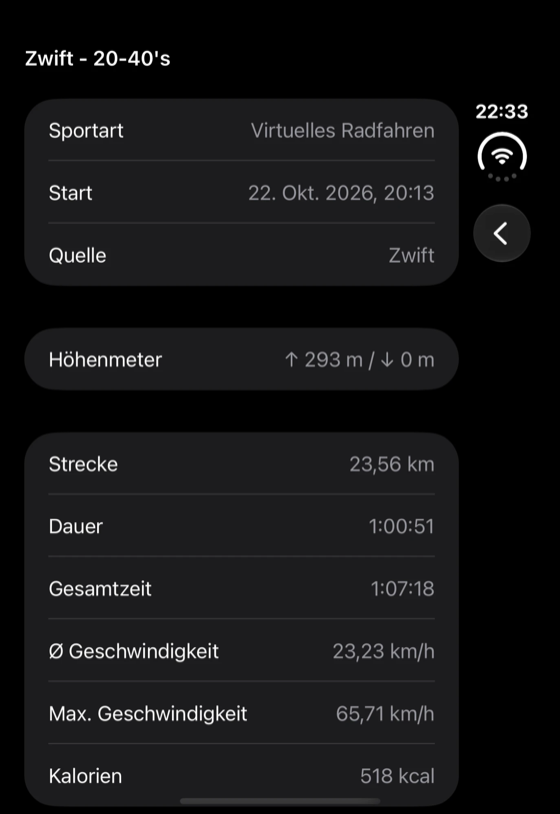
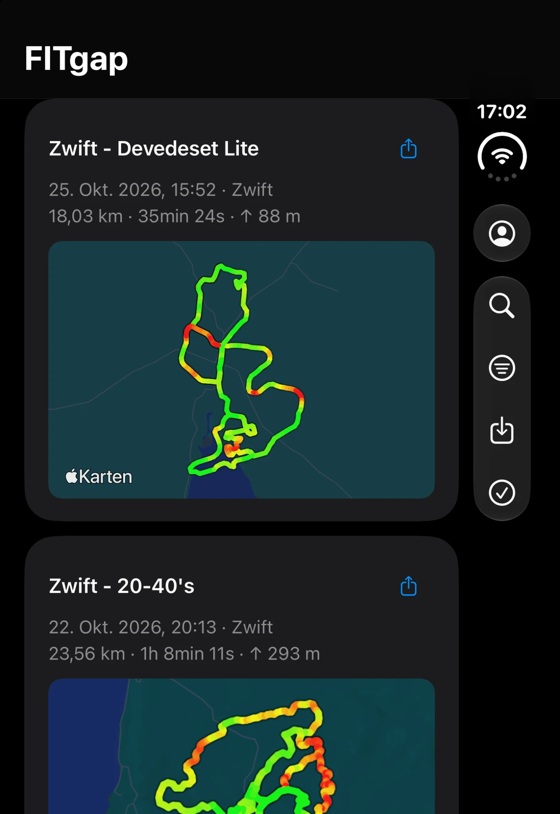
release/0.2.2

diff --git a/docs/privacy/index.html b/docs/privacy/index.html
@@ -29,7 +29,7 @@ footer a{color:var(--muted);text-decoration:underline}
 <nav><a class="brand" href="../"><img src="../assets/logo.png" alt="" width="32" height="32">FITgap</a><span><a href="en/">English</a> · <a href="https://github.com/florianwildt/fitgap">GitHub</a></span></nav>
 <main>
 <h1 id="fitgap">FITgap</h1>
-<p>FIT-Dateien aus Wahoo, Zwift, MyWhoosh, Hammerhead und intervals.icu sichern und teilen.</p>
+<p>FIT-Dateien aus Wahoo, Zwift, MyWhoosh, Hammerhead, Dropbox, intervals.icu und anderen Apps sichern, in Apple Health speichern und teilen.</p>
 
 <h2 id="support">Support</h2>
 <p>Bei Fragen oder Problemen: <a href="mailto:fitgap@florianwildt.de">fitgap@florianwildt.de</a></p>
@@ -50,7 +50,7 @@ Deutschland</p>
 <p>Diese Erklärung beschreibt die Verarbeitung personenbezogener Daten bei der Nutzung der iOS-App FITgap und dieser Informationsseite.</p>
 
 <h2 id="2-grundprinzip-der-app">2. Grundprinzip der App</h2>
-<p>FITgap verbindet sich auf deine Anforderung mit deinen eigenen Konten bei Wahoo, Zwift, MyWhoosh, Hammerhead, Dropbox und intervals.icu, lädt Aktivitätsinformationen und Original-FIT-Dateien herunter und speichert sie auf deinem iPhone.</p>
+<p>FITgap verbindet sich auf deine Anforderung mit deinen eigenen Konten bei Wahoo, Zwift, MyWhoosh, Hammerhead, Dropbox und intervals.icu, lädt Aktivitätsinformationen und Original-FIT-Dateien herunter und speichert sie auf deinem iPhone. Außerdem kannst du FIT-Dateien, die du aus der Dateien-App, Mail oder einer anderen App in FITgap öffnest, importieren; sie werden ebenfalls nur lokal gespeichert.</p>
 
 <p>FITgap betreibt keinen eigenen Server zur Speicherung deiner Konten oder Trainingsdaten. Der Entwickler erhält durch die normale App-Nutzung keinen Zugriff auf diese Daten.</p>
 
@@ -65,6 +65,7 @@ Deutschland</p>
   <li>Trainingskennzahlen, beispielsweise Dauer, Strecke, Höhenmeter und Durchschnittsgeschwindigkeit.</li>
   <li>Original-FIT-Dateien. Diese können je nach Aufzeichnung weitere persönliche Daten enthalten, etwa Positions-, Herzfrequenz- oder Leistungsdaten.</li>
   <li>Lokale Download-, Synchronisierungs- und Teilen-Statusinformationen sowie der Exportstatus für Apple Health.</li>
+  <li>Ein lokales Startprotokoll mit Startzeiten der App, App-Version, Gerätemodell, iOS-Version und Anzahl der gespeicherten Aktivitäten. Es enthält keine Trainingsinhalte und Zugangsdaten und verlässt das Gerät nur, wenn du es unter „Konten“ › „Diagnose“ selbst teilst.</li>
 </ul>
 
 <p>Die gespeicherten Daten dienen der Bereitstellung der von dir genutzten App-Funktionen.</p>
@@ -100,6 +101,7 @@ Deutschland</p>
 <p>Aktivitätsinformationen, FIT-Dateien und berechnete Kennzahlen werden im lokalen App-Speicher abgelegt. Eine eigene Cloud-Synchronisierung bietet FITgap nicht an. Gerätesicherungen können abhängig von deinen Apple- und Geräteeinstellungen App-Daten enthalten.</p>
 
 <p>Beim Teilen über das iOS-Teilen-Menü wird die ausgewählte Originaldatei an die von dir gewählte App oder das gewählte Ziel übergeben, beispielsweise HealthFit. Eine FIT-Datei kann dabei auch sensible Trainings- und Positionsdaten enthalten. Für die weitere Verarbeitung beim Empfänger gelten dessen Datenschutzbestimmungen.</p>
+<p>Enthält eine Aktivität Positionsdaten, zeigt FITgap die Strecke auf einer Karte von Apple (MapKit). Zum Laden der Karte erhält Apples Kartendienst den angezeigten Kartenausschnitt sowie technisch notwendige Verbindungsdaten wie die IP-Adresse; die Strecke selbst zeichnet FITgap auf dem Gerät. Es gilt die <a href="https://www.apple.com/de/legal/privacy/data/de/apple-maps/">Datenschutzinformation zu Apple Karten</a>.</p>
 
 <h2 id="6-apple-health">6. Apple Health</h2>
 <p>Die Sicherung in Apple Health ist optional und erfolgt nur, wenn du sie für eine Aktivität, eine Auswahl oder automatisch für neue Aktivitäten auslöst und den Zugriff in iOS erlaubst.</p>
@@ -118,7 +120,7 @@ Deutschland</p>
 
 <ul>
   <li>„Trennen“ entfernt die in FITgap gespeicherten Zugangstokens des jeweiligen Anbieters. Bereits heruntergeladene Dateien und Aktivitätsinformationen bleiben erhalten.</li>
-  <li>Eine beim Anbieter erteilte Freigabe wird durch „Trennen“ nicht widerrufen. Verwalte sie zusätzlich beim jeweiligen Anbieter.</li>
+  <li>Eine beim Anbieter erteilte Freigabe wird durch „Trennen“ nicht widerrufen, außer bei Hammerhead und Dropbox. Verwalte sie zusätzlich beim jeweiligen Anbieter.</li>
   <li>Das Ausschalten der automatischen Sicherung oder das Löschen von FITgap entfernt keine bereits in Apple Health gesicherten Trainings.</li>
   <li>Das Löschen einer FIT-Datei entfernt die lokale Datei. Der Aktivitätseintrag und bereits gespeicherte Kennzahlen können weiterhin vorhanden sein.</li>
   <li>Zum Entfernen des gesamten lokalen App-Speichers kannst du die App über iOS löschen. „App auslagern“ erhält dagegen Dokumente und Daten. Trenne zuvor die Konten, da Schlüsselbunddaten eine App-Deinstallation überdauern können.</li>

diff --git a/docs/privacy/en/index.html b/docs/privacy/en/index.html
@@ -29,7 +29,7 @@ footer a{color:var(--muted);text-decoration:underline}
 <nav><a class="brand" href="../../"><img src="../../assets/logo.png" alt="" width="32" height="32">FITgap</a><span><a href="../">Deutsch</a> · <a href="https://github.com/florianwildt/fitgap">GitHub</a></span></nav>
 <main>
 <h1 id="fitgap">FITgap</h1>
-<p>Back up and share FIT files from Wahoo, Zwift, MyWhoosh, Hammerhead and intervals.icu.</p>
+<p>Back up FIT files from Wahoo, Zwift, MyWhoosh, Hammerhead, Dropbox, intervals.icu and other apps, save them to Apple Health and share them.</p>
 
 <h2 id="support">Support</h2>
 <p>If you have questions or problems, contact <a href="mailto:fitgap@florianwildt.de">fitgap@florianwildt.de</a>.</p>
@@ -51,7 +51,7 @@ Germany</p>
 <p>This policy describes how personal data is processed when you use the iOS app FITgap and this information website.</p>
 
 <h2 id="2-basic-principle-of-the-app">2. Basic principle of the app</h2>
-<p>At your request, FITgap connects to your own Wahoo, Zwift, MyWhoosh, Hammerhead, Dropbox and intervals.icu accounts, downloads activity information and original FIT files, and stores them on your iPhone.</p>
+<p>At your request, FITgap connects to your own Wahoo, Zwift, MyWhoosh, Hammerhead, Dropbox and intervals.icu accounts, downloads activity information and original FIT files, and stores them on your iPhone. You can also import FIT files that you open in FITgap from the Files app, Mail or another app; they are likewise stored only on your device.</p>
 
 <p>FITgap does not operate its own server for storing your accounts or workout data. The developer does not gain access to this data through normal use of the app.</p>
 
@@ -66,6 +66,7 @@ Germany</p>
   <li>Workout metrics such as duration, distance, elevation gain and average speed.</li>
   <li>Original FIT files. Depending on the recording, these may contain further personal data such as location, heart rate or power data.</li>
   <li>Local download, synchronisation and sharing status information, and the Apple Health export status.</li>
+  <li>A local startup log with the app’s launch timings, app version, device model, iOS version and number of stored activities. It contains no workout content or credentials and only leaves the device if you share it yourself under “Accounts” › “Diagnostics”.</li>
 </ul>
 
 <p>The stored data is used to provide the app functions you use.</p>
@@ -101,6 +102,7 @@ Germany</p>
 <p>Activity information, FIT files and calculated metrics are stored in the app’s local storage. FITgap does not offer its own cloud synchronisation. Depending on your Apple and device settings, device backups may contain app data.</p>
 
 <p>When you share via the iOS share sheet, the selected original file is handed to the app or destination you choose, for example HealthFit. A FIT file may also contain sensitive workout and location data. The recipient’s privacy policy applies to any further processing by the recipient.</p>
+<p>If an activity contains location data, FITgap shows its route on a map from Apple (MapKit). To load the map, Apple’s map service receives the displayed map region and technically necessary connection data such as your IP address; FITgap draws the route itself on the device. Apple’s <a href="https://www.apple.com/legal/privacy/data/en/apple-maps/">Apple Maps privacy information</a> applies.</p>
 
 <h2 id="6-apple-health">6. Apple Health</h2>
 <p>Saving to Apple Health is optional and only happens when you trigger it for an activity, a selection or automatically for new activities, and allow access in iOS.</p>
@@ -119,7 +121,7 @@ Germany</p>
 
 <ul>
   <li>“Disconnect” removes the access tokens stored in FITgap for the respective provider. Files already downloaded and activity information are kept.</li>
-  <li>“Disconnect” does not revoke permission granted at the provider. Please also manage it with the provider.</li>
+  <li>“Disconnect” does not revoke permission granted at the provider, except for Hammerhead and Dropbox. Please also manage it with the provider.</li>
   <li>Turning off automatic saving or deleting FITgap does not remove workouts already saved to Apple Health.</li>
   <li>Deleting a FIT file removes the local file. The activity entry and metrics already saved may remain.</li>
   <li>To remove all local app storage, delete the app through iOS. “Offload App”, by contrast, keeps documents and data. Disconnect your accounts beforehand, as keychain data can survive an app deletion.</li>

diff --git a/docs/index.html b/docs/index.html
@@ -86,10 +86,10 @@ html[lang=en] span[data-l=en],html[lang=de] span[data-l=de]{display:inline}
   </div>
 
   <div class="shots" id="shots">
-    <figure data-l="en"><img src="assets/shot-list-en.png" alt="Activity list with Zwift and Wahoo rides" width="560" height="1217" loading="lazy"><figcaption>Your activities</figcaption></figure>
-    <figure data-l="de"><img src="assets/shot-list-de.png" alt="Aktivitätenliste mit Zwift- und Wahoo-Fahrten" width="560" height="1217" loading="lazy"><figcaption>Deine Aktivitäten</figcaption></figure>
-    <figure data-l="en"><img src="assets/shot-detail-en.png" alt="Activity details read from the FIT file" width="560" height="1217" loading="lazy"><figcaption>Details from the FIT</figcaption></figure>
-    <figure data-l="de"><img src="assets/shot-detail-de.png" alt="Aktivitätsdetails aus der FIT-Datei" width="560" height="1217" loading="lazy"><figcaption>Details aus der FIT</figcaption></figure>
+    <figure data-l="en"><img src="assets/shot-list-en.png" alt="Activity list with Zwift rides and their route maps" width="560" height="1217" loading="lazy"><figcaption>Your activities</figcaption></figure>
+    <figure data-l="de"><img src="assets/shot-list-de.png" alt="Aktivitätenliste mit Zwift-Fahrten und ihren Streckenkarten" width="560" height="1217" loading="lazy"><figcaption>Deine Aktivitäten</figcaption></figure>
+    <figure data-l="en"><img src="assets/shot-detail-en.png" alt="Activity details with route map, start and finish" width="560" height="1217" loading="lazy"><figcaption>Route and details from the FIT</figcaption></figure>
+    <figure data-l="de"><img src="assets/shot-detail-de.png" alt="Aktivitätsdetails mit Streckenkarte, Start und Ziel" width="560" height="1217" loading="lazy"><figcaption>Strecke und Details aus der FIT</figcaption></figure>
     <figure class="wide" data-l="en"><img src="assets/shot-duo-split-en.png" alt="Two-column layout on the unfolded iPhone Duo" width="1100" height="774" loading="lazy"><figcaption>Two columns on iPhone Duo</figcaption></figure>
     <figure class="wide" data-l="de"><img src="assets/shot-duo-split-de.png" alt="Zweispaltige Ansicht auf dem aufgeklappten iPhone Duo" width="1100" height="774" loading="lazy"><figcaption>Zweispaltig auf dem iPhone Duo</figcaption></figure>
   </div>
@@ -98,7 +98,7 @@ html[lang=en] span[data-l=en],html[lang=de] span[data-l=de]{display:inline}
     <h2><span data-l="en">How it works</span><span data-l="de">So funktioniert's</span></h2>
     <ol class="steps">
       <li><span data-l="en">Connect</span><span data-l="de">Verbinden</span><span class="sub"><span data-l="en">Sign in to Wahoo, Zwift, MyWhoosh, Hammerhead, Dropbox or intervals.icu – or simply open a FIT file in FITgap.</span><span data-l="de">Bei Wahoo, Zwift, MyWhoosh, Hammerhead, Dropbox oder intervals.icu anmelden – oder einfach eine FIT-Datei in FITgap öffnen.</span></span></li>
-      <li><span data-l="en">Download</span><span data-l="de">Laden</span><span class="sub"><span data-l="en">All original FIT files are fetched and stored locally.</span><span data-l="de">Alle Original-FITs werden geladen und lokal gespeichert.</span></span></li>
+      <li><span data-l="en">Download</span><span data-l="de">Laden</span><span class="sub"><span data-l="en">All original FIT files are fetched and stored locally – filter them by time period, activity type or source.</span><span data-l="de">Alle Original-FITs werden geladen und lokal gespeichert – filterbar nach Zeitraum, Aktivitätstyp und Quelle.</span></span></li>
       <li><span data-l="en">Save to Health</span><span data-l="de">In Health sichern</span><span class="sub"><span data-l="en">One, a selection, all past activities or new ones automatically after every sync.</span><span data-l="de">Eine, eine Auswahl, alle vergangenen oder neue automatisch nach jedem Abgleich.</span></span></li>
       <li><span data-l="en">Or share</span><span data-l="de">Oder teilen</span><span class="sub"><span data-l="en">Pick one or many and send them to HealthFit via the share sheet.</span><span data-l="de">Eine oder mehrere wählen und per Share Sheet an HealthFit senden.</span></span></li>
     </ol>

diff --git a/Sources/FITgapCore/DemoLibrary.swift b/Sources/FITgapCore/DemoLibrary.swift
@@ -24,8 +24,9 @@ public struct DemoLibrary: Sendable {
         if FileManager.default.fileExists(atPath: library.directory.appendingPathComponent("activities.json").path) {
             var records = try library.load()
             // Bundled demo files are small: replace copies from an older app version and refresh older cached metrics directly.
+            // A file the user deleted stays deleted until restored.
             let outdated = records.indices.filter { index in
-                guard let bundled = try? bytes(id: records[index].remoteID) else { return false }
+                guard records[index].status != .deleted, let bundled = try? bytes(id: records[index].remoteID) else { return false }
                 return records[index].receipt?.sha256 != SHA256.hash(data: bundled).map { String(format: "%02x", $0) }.joined()
             }
             guard !outdated.isEmpty || records.contains(where: \.needsMetrics) else { return records }

diff --git a/App/DemoSection.swift b/App/DemoSection.swift
@@ -28,7 +28,7 @@ struct DemoSection: View {
                     Button("Demo ausprobieren", systemImage: "play.circle") { Task { await model.setDemo(true) } }
                         .accessibilityIdentifier(identifierPrefix + "try-demo")
                         .disabled(model.switchingMode)
-                    Text("Kernfunktionen mit synthetischen Aktivitäten und lokalen FIT-Dateien ausprobieren. Kein Konto bei Wahoo, Zwift oder MyWhoosh erforderlich.")
+                    Text("Kernfunktionen mit synthetischen Aktivitäten und lokalen FIT-Dateien ausprobieren. Kein Konto bei einer Datenquelle erforderlich.")
                         .font(.footnote).foregroundStyle(.secondary)
                 }
                 if model.switchingMode {

diff --git a/App/ActivitiesView.swift b/App/ActivitiesView.swift
@@ -90,7 +90,7 @@ struct ActivitiesView: View {
                 if model.activities.isEmpty {
                     Section {
                         ContentUnavailableView("Noch keine Aktivitäten", systemImage: "figure.outdoor.cycle",
-                            description: Text("Verbinde unter „Konten“ Wahoo, Zwift oder MyWhoosh und ziehe die Liste nach unten."))
+                            description: Text("Verbinde unter „Konten“ eine Datenquelle und ziehe die Liste nach unten – oder importiere eine FIT-Datei."))
                     }
                 } else if matches.isEmpty {
                     if filter.isActive, search.isEmpty {

diff --git a/README.de.md b/README.de.md
@@ -4,7 +4,7 @@
 
 ![FITgap – Deine Fahrten von Wahoo, Zwift, MyWhoosh, Hammerhead, Dropbox und intervals.icu, direkt in Apple Health](docs/assets/header-de.png)
 
-FITgap ist eine schlanke Open-Source-iPhone-App, die deine **Original-FIT-Dateien** von Wahoo, Zwift, MyWhoosh, Hammerhead und intervals.icu herunterlädt und über das native Share Sheet direkt an Apps wie [HealthFit](https://apps.apple.com/app/healthfit/id1202650514) übergibt. Die Dateien werden weder konvertiert noch neu kodiert.
+FITgap ist eine schlanke Open-Source-iPhone-App, die deine **Original-FIT-Dateien** von Wahoo, Zwift, MyWhoosh, Hammerhead, Dropbox und intervals.icu herunterlädt oder FIT-Dateien importiert, die du darin öffnest. Sie sichert sie mit allen Messwerten, Runden und Route ohne Dubletten in Apple Health oder übergibt sie unverändert über das native Share Sheet an Apps wie [HealthFit](https://apps.apple.com/app/healthfit/id1202650514). Die Dateien werden weder konvertiert noch neu kodiert.
 
 - Ab iOS 17, SwiftUI mit nativen Bedienelementen
 - Hell- und Dunkelmodus, deutsche und englische Oberfläche (nach iOS-Sprache, Englisch als Fallback)
@@ -27,11 +27,13 @@ FITgap ist eine schlanke Open-Source-iPhone-App, die deine **Original-FIT-Dateie
 - **Teilen:** Eine FIT oder eine Mehrfachauswahl ans System-Share-Sheet übergeben, z. B. an HealthFit. Geteilte Aktivitäten werden in der Liste markiert.
 - **Apple Health:** Aktivitäten als Trainings sichern, mit allen Messwerten, für die Health einen Typ hat (Herzfrequenz, Leistung, Trittfrequenz, Geschwindigkeit, Laufdynamik, Strecke, Energie, Schwimmbahnen), Runden, Pausen, Route und der Session-Zusammenfassung als Metadaten. Einzeln, per Auswahl oder automatisch für neue Aktivitäten. Bereits in Health vorhandene Trainings, von FITgap oder einer anderen App, werden erkannt und übersprungen.
 - **Details:** Strecke, Dauer, Durchschnitts- und Höchstgeschwindigkeit, Herzfrequenz, Trittfrequenz, Leistung, Höhenmeter und mehr, lokal aus der FIT-Session gelesen.
-- **Suche** über alle heruntergeladenen Aktivitäten.
+- **Streckenkarte:** Liste und Details zeigen die aufgezeichnete Strecke auf einer Apple-Karte, nach Tempo eingefärbt (rot langsam, gelb mittel, grün schnell) mit Start und Ziel; virtuelle Fahrten aus Zwift oder MyWhoosh liegen an den Koordinaten ihrer Spielwelt. Ein Tipp auf die Karte in den Details öffnet sie bildschirmfüllend zum Hineinzoomen. Aktivitäten ohne Positionen zeigen keine Karte.
+- **Suche und Filter** über alle heruntergeladenen Aktivitäten: Zeitraum (letzte 7 oder 30 Tage, letzte 12 Monate, dieses oder letztes Jahr), Aktivitätstyp und Datenquelle.
 - **Dateien-App:** Jede geladene FIT liegt zusätzlich unter *Auf meinem iPhone › FITgap*.
 - **Große Archive:** Seitenweiser Abgleich mit Fortsetzung, Beachtung der Abruflimits von Wahoo und Dropbox und abbrechbare Downloads. Ab iOS 26 läuft ein selbst gestarteter Abgleich oder Health-Export nach dem Verlassen der App weiter, mit Fortschritt in der Dynamic Island.
 - **Integrität:** Downloads werden atomar gespeichert und vor dem Teilen per SHA-256 geprüft.
-- **Demo-Modus:** App ohne Konto mit drei synthetischen Beispielfahrten ausprobieren, auch den Export nach Apple Health. Zurücksetzen oder Beenden der Demo entfernt die Demo-Trainings wieder aus Health.
+- **Demo-Modus:** App ohne Konto mit drei synthetischen Beispielfahrten samt Strecken ausprobieren, auch den Export nach Apple Health. Zurücksetzen oder Beenden der Demo entfernt die Demo-Trainings wieder aus Health.
+- **Startprotokoll:** *Konten › Diagnose › Startprotokoll teilen* übergibt eine lokale Textdatei mit Startzeiten (App-Version, Gerätemodell, iOS-Version, Anzahl der Aktivitäten) ans Share Sheet, etwa als Anhang einer Support-E-Mail. Sie entsteht nur auf dem Gerät und wird nie automatisch gesendet.
 
 ## Bauen und starten
 
@@ -61,6 +63,7 @@ Schlüsselbund-, Sync-Lebenszyklus- und UI-Tests sind im Xcode-Scheme enthalten.
 - Access- und Refresh-Tokens sowie der intervals.icu-API-Key liegen ausschließlich im lokalen Schlüsselbund (`WhenUnlockedThisDeviceOnly`, ohne iCloud-Synchronisierung).
 - Aktivitäten und FIT-Dateien liegen auf dem Gerät unter `Application Support/FITgap/`. Es werden keine Daten an einen Server des Projekts gesendet.
 - Der Zugriff auf Apple Health ist optional. FITgap schreibt Trainings und liest nur Trainings, um Duplikate zu erkennen; über FITgap verlassen keine Health-Daten das Gerät.
+- Karten zeichnet Apple MapKit. Für die Anzeige erhält Apples Kartendienst den sichtbaren Kartenausschnitt und die üblichen Verbindungsdaten; die Strecke selbst wird auf dem Gerät gezeichnet.
 - Trennen entfernt die lokale Sitzung; die Freigabe beim Anbieter bleibt bestehen, nur bei Hammerhead und Dropbox widerruft FITgap sie. Heruntergeladene Dateien bleiben erhalten.
 
 Siehe die vollständige [Datenschutzerklärung](https://florianwildt.github.io/fitgap/privacy/).

diff --git a/README.md b/README.md
@@ -4,7 +4,7 @@
 
 ![FITgap – Your rides from Wahoo, Zwift, MyWhoosh, Hammerhead, Dropbox and intervals.icu, straight into Apple Health](docs/assets/header-en.png)
 
-FITgap is a small, open-source iPhone app that downloads your **original FIT files** from Wahoo, Zwift, MyWhoosh, Hammerhead and intervals.icu and hands them directly to apps like [HealthFit](https://apps.apple.com/app/healthfit/id1202650514) through the native share sheet. Files are never converted or re-encoded.
+FITgap is a small, open-source iPhone app that downloads your **original FIT files** from Wahoo, Zwift, MyWhoosh, Hammerhead, Dropbox and intervals.icu, or imports FIT files you open in it. It saves them to Apple Health with every metric, lap and route, without duplicates, or hands them unchanged to apps like [HealthFit](https://apps.apple.com/app/healthfit/id1202650514) through the native share sheet. Files are never converted or re-encoded.
 
 - Requires iOS 17 or later, written in SwiftUI with native controls
 - Light and dark mode, German and English interface (follows the iOS language, English as fallback)
@@ -27,11 +27,13 @@ FITgap is a small, open-source iPhone app that downloads your **original FIT fil
 - **Share:** Hand one FIT or a multi-selection to the system share sheet, for example to HealthFit. Shared activities are marked in the list.
 - **Apple Health:** Save activities as workouts with every record sample Health supports (heart rate, power, cadence, speed, running dynamics, distance, energy, swim lengths), laps, pauses, route and the session summary as metadata. Individually, by selection or automatically for new activities. Workouts already in Health, from FITgap or another app, are detected and skipped.
 - **Details:** Distance, duration, average and maximum speed, heart rate, cadence, power, elevation and more, read locally from the FIT session summary.
-- **Search** across all downloaded activities.
+- **Route map:** Rows and details show the recorded route on an Apple map, coloured by speed (red slow, yellow average, green fast) with start and finish; virtual rides from Zwift or MyWhoosh appear at the coordinates of their game world. Tap the map in the details to open it full screen and zoom in. Activities without positions show no map.
+- **Search and filters** across all downloaded activities: time period (last 7 or 30 days, last 12 months, this or last year), activity type and data source.
 - **Files app:** Every downloaded FIT is also available under *On My iPhone › FITgap*.
 - **Large archives:** Paged syncing with resume, respect for Wahoo and Dropbox rate limits, and cancellable downloads. On iOS 26 and later, a sync or Health export you started keeps running after you leave the app, with progress in the Dynamic Island.
 - **Integrity:** Downloads are stored atomically and verified with SHA-256 before sharing.
-- **Demo mode:** Try the app without an account using three synthetic sample rides, including the Apple Health export. Resetting or ending the demo removes the demo workouts from Health.
+- **Demo mode:** Try the app without an account using three synthetic sample rides with routes, including the Apple Health export. Resetting or ending the demo removes the demo workouts from Health.
+- **Startup log:** *Accounts › Diagnostics › Share Startup Log* hands a local text file with launch timings (app version, device model, iOS version, number of activities) to the share sheet, for example to attach it to a support email. It is only written on the device and never sent automatically.
 
 ## Build and run
 
@@ -61,6 +63,7 @@ The iOS keychain, sync lifecycle and UI tests are part of the Xcode scheme.
 - Access and refresh tokens and the intervals.icu API key are stored only in the local keychain (`WhenUnlockedThisDeviceOnly`, no iCloud sync).
 - Activities and FIT files are stored on the device in `Application Support/FITgap/`. Nothing is sent to a server operated by the project.
 - Apple Health access is optional. FITgap writes workouts and only reads workouts to detect duplicates; no Health data leaves the device through FITgap.
+- Maps are drawn with Apple MapKit. To show the map, Apple's map service receives the visible map region and the usual connection data; the route itself is drawn on the device.
 - Disconnecting removes the local session; the authorisation at the provider remains, except for Hammerhead and Dropbox, where FITgap revokes it. Downloaded files remain.
 
 See the full [Privacy Policy](https://florianwildt.github.io/fitgap/privacy/en/).
